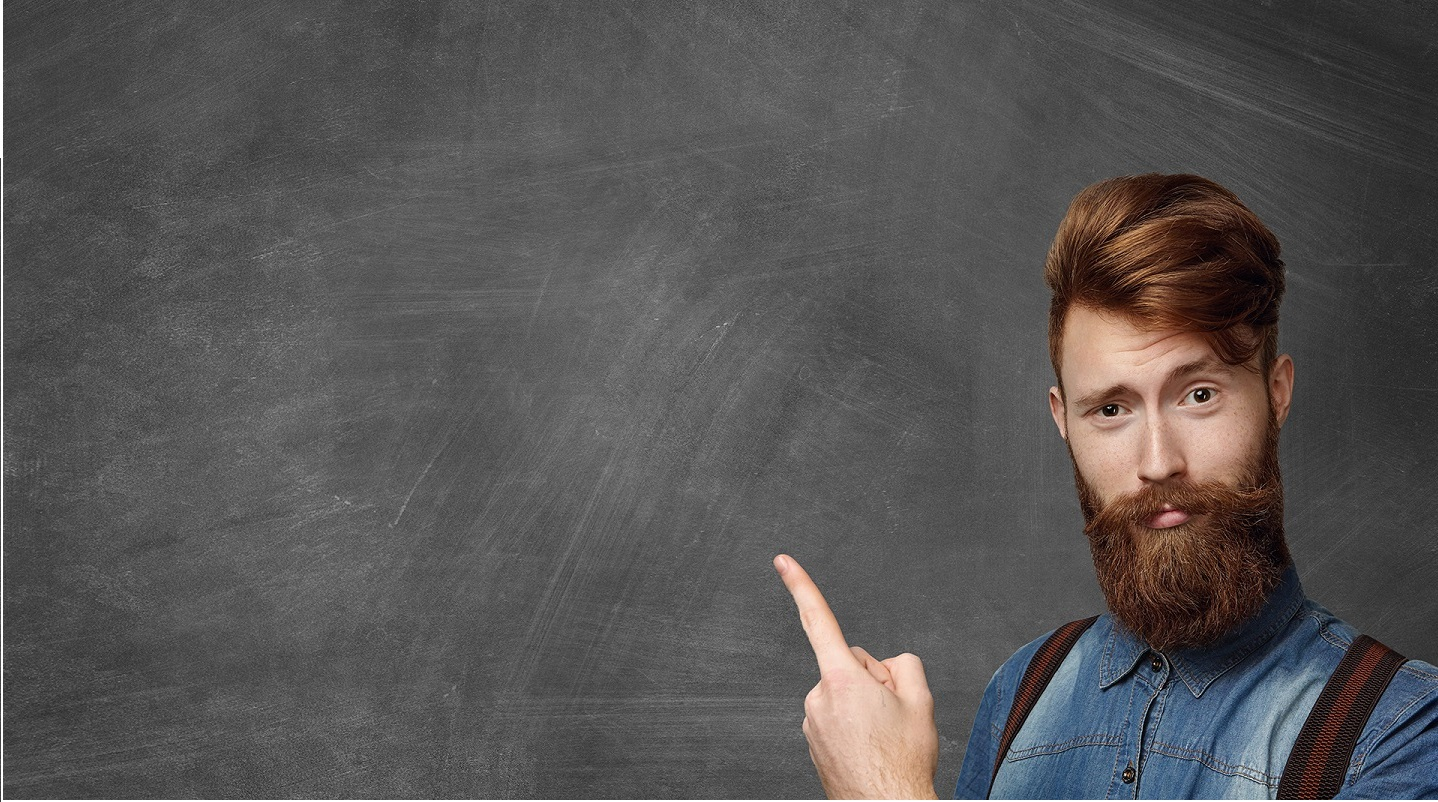
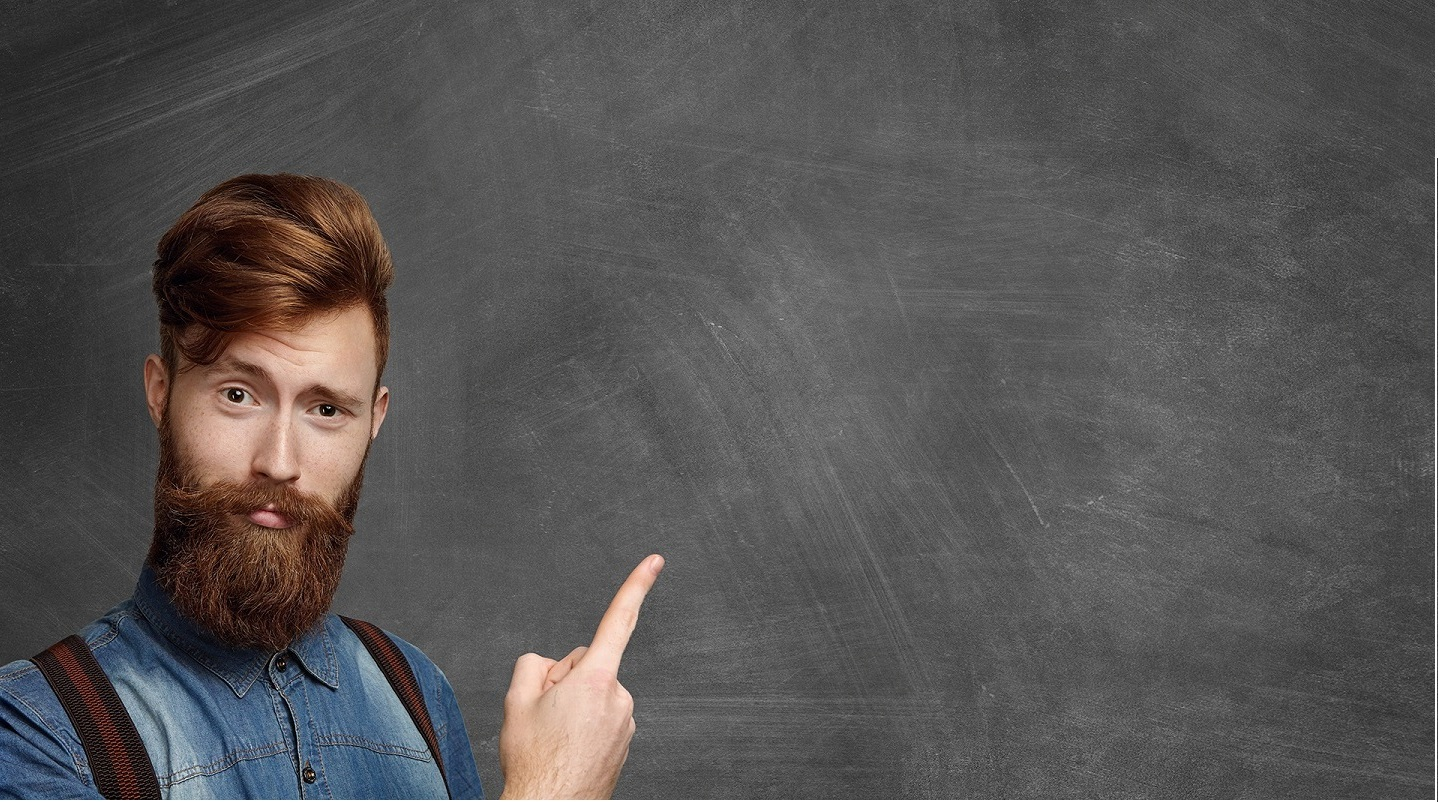
form v1

diff --git a/style.css b/style.css
@@ -25,7 +25,7 @@ html, body {
     font-weight: bold;
     font-size: 1.1rem;
     padding:3rem;
-    transform: translateX(-60%);
+    transform: translateX(60%);
 }
 
 .container h3 {
